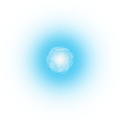
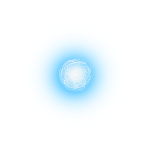
Added new art, sounds, debug tool, fixed bugs,

diff --git a/src/prefabs/ChaserEnemy.js b/src/prefabs/ChaserEnemy.js
@@ -41,7 +41,9 @@ class ChaserEnemy extends Phaser.Physics.Arcade.Sprite {
         this.redGroup = redGroup;
         this.blueGroup = blueGroup;
 
+        this.moving = false;
         this.exists = true;
+        this.stunned = false;
         this.health = chaserHealth;
         this.damage = 1;
         this.damaged = false;
@@ -83,6 +85,7 @@ class ChaserEnemy extends Phaser.Physics.Arcade.Sprite {
             enemy.moveTimer = scene.time.addEvent({
                 delay: chaserMoveDelay, 
                 callback: () => {
+                    enemy.moving = true;
                     // Predict player movement if more than predictMinDist away from player
                     if(Math.abs(player.x - enemy.x) > predictMinDist && Math.abs(player.y - enemy.y) > predictMinDist){
                         enemy.targetX = player.x + player.body.velocity.x * predictMult;
@@ -173,8 +176,8 @@ class ChaserEnemy extends Phaser.Physics.Arcade.Sprite {
         // If dead show got hit, stop everything, destroy, show death
         } else {
             this.exists = false;
-            this.startMoving.remove();
             this.moveTimer.remove();
+            this.startMoving.remove();
             if(this.damaged){
                 this.damagedTimer.remove();
             }
@@ -201,35 +204,36 @@ class ChaserEnemy extends Phaser.Physics.Arcade.Sprite {
         this.timedSwitch = this.scene.time.addEvent({
             delay: timedSwitchDelay, 
             callback: () => {
-                // Stop enemy->enemy collisions
-                // this.switching = true;
-                this.body.setImmovable(true);
-                // If was red, change to blue
-                if(this.state == 0){
-                    // Pause movement before switching
-                    this.body.stop();
-                    this.moveTimer.paused = true;
-                    this.timedSwitch.paused = true;
-                    this.switchPause = this.scene.time.delayedCall(enemySwitchPause, () => {
-                        if(this.health > 0){
-                            // eSwitchColor(originalGroup, newGroup)
-                            this.eSwitchColor(this.redGroup, this.blueGroup);
-                            this.timedSwitch.paused = false;
-                        }
-                    }, this.enemy, this.scene);
-                // If was blue, change to red
-                } else {
-                    // Pause movement before switching
-                    this.body.stop();
-                    this.moveTimer.paused = true;
-                    this.timedSwitch.paused = true;
-                    this.switchPause = this.scene.time.delayedCall(enemySwitchPause, () => {
-                        if(this.health > 0){
-                            // eSwitchColor(originalGroup, newGroup)
-                            this.eSwitchColor(this.blueGroup, this.redGroup);
-                            this.timedSwitch.paused = false;
-                        }
-                    }, this.enemy, this.scene);
+                if(!this.stunned){
+                    // Stop enemy->enemy collisions
+                    this.body.setImmovable(true);
+                    // If was red, change to blue
+                    if(this.state == 0){
+                        // Pause movement before switching
+                        this.body.stop();
+                        this.moveTimer.paused = true;
+                        this.timedSwitch.paused = true;
+                        this.switchPause = this.scene.time.delayedCall(enemySwitchPause, () => {
+                            if(this.health > 0){
+                                // eSwitchColor(originalGroup, newGroup)
+                                this.eSwitchColor(this.redGroup, this.blueGroup);
+                                this.timedSwitch.paused = false;
+                            }
+                        }, this.enemy, this.scene);
+                    // If was blue, change to red
+                    } else {
+                        // Pause movement before switching
+                        this.body.stop();
+                        this.moveTimer.paused = true;
+                        this.timedSwitch.paused = true;
+                        this.switchPause = this.scene.time.delayedCall(enemySwitchPause, () => {
+                            if(this.health > 0){
+                                // eSwitchColor(originalGroup, newGroup)
+                                this.eSwitchColor(this.blueGroup, this.redGroup);
+                                this.timedSwitch.paused = false;
+                            }
+                        }, this.enemy, this.scene);
+                    }
                 }
             }, 
             callbackContext: this.scene,

diff --git a/src/prefabs/OrbGroup.js b/src/prefabs/OrbGroup.js
@@ -3,7 +3,6 @@ class OrbGroup extends Phaser.GameObjects.Group {
         // https://photonstorm.github.io/phaser3-docs/Phaser.Types.Physics.Arcade.html#.PhysicsGroupConfig__anchor
         let groupConfig = {
             runChildUpdate: true,
-            maxSize: 2,
         }
         // Group(scene [, children] [, config])
         super(scene, null, groupConfig);
@@ -20,7 +19,6 @@ class OrbGroup extends Phaser.GameObjects.Group {
                 if(orb.shot){
                     enemy.orbDamageInvuln = true;
                     enemy.takeDamage(enemy, orb.damage);
-                    // console.log("orb damage: " + orb.damage);
                     enemy.orbInvulnTimer = group.scene.time.delayedCall(orbShotInvulnDuration, function () {
                         enemy.orbDamageInvuln = false;
                     }, null, this.scene);
@@ -28,7 +26,8 @@ class OrbGroup extends Phaser.GameObjects.Group {
                 } else if (!enemy.orbBlockInvuln) {
                     enemy.orbBlockInvuln = true;
                     // Stop enemy movement
-                    if(enemy.exists){
+                    if(enemy.exists && enemy.moving){
+                        enemy.stunned = true;
                         enemy.moveTimer.paused = true;
                         enemy.body.stop();
 
@@ -42,6 +41,7 @@ class OrbGroup extends Phaser.GameObjects.Group {
                         // Allow enemy movement after short stun
                         enemy.stunTimer = group.scene.time.delayedCall(orbBlockStunDuration, function () {
                             enemy.moveTimer.paused = false;
+                            enemy.stunned = false;
                         }, null, this.scene);
 
                         // Allow ability to be blocked again after short invuln time
@@ -70,10 +70,10 @@ class OrbGroup extends Phaser.GameObjects.Group {
                     this.orb = new Orb(this.scene, this, idleWeaponX, idleWeaponY, 0);
                     this.add(this.orb);
                     // Pass variables to the orb for this shot
-                    this.orb.targetX = pointer.x;
-                    this.orb.targetY = pointer.y;
                     this.orb.shotX = this.orb.x;
                     this.orb.shotY = this.orb.y;
+                    this.orb.targetX = pointer.x;
+                    this.orb.targetY = pointer.y;
                     this.orb.damage = orbShootDamage;
                     // Triggers orb shot
                     this.orb.shot = true;

diff --git a/src/prefabs/Player.js b/src/prefabs/Player.js
@@ -15,11 +15,12 @@ class Player extends Phaser.Physics.Arcade.Sprite {
         this.body.setSize(30, 50);
         this.body.setMaxVelocity(maxMoveVelocity, maxMoveVelocity);
 
-        keyLeft = scene.input.keyboard.addKey(Phaser.Input.Keyboard.KeyCodes.A);
-        keyRight = scene.input.keyboard.addKey(Phaser.Input.Keyboard.KeyCodes.D);
-        keyUp = scene.input.keyboard.addKey(Phaser.Input.Keyboard.KeyCodes.W);
-        keyDown = scene.input.keyboard.addKey(Phaser.Input.Keyboard.KeyCodes.S);
-        keySwitch = scene.input.keyboard.addKey(Phaser.Input.Keyboard.KeyCodes.SHIFT);
+        keyLeft = scene.input.keyboard.addKey('A');
+        keyRight = scene.input.keyboard.addKey('D');
+        keyUp = scene.input.keyboard.addKey('W');
+        keyDown = scene.input.keyboard.addKey('S');
+        keySwitch = scene.input.keyboard.addKey('SHIFT');
+        keyDebug = scene.input.keyboard.addKey('B');
         
         // this.idleWeapon = scene.add.sprite(centerX, centerY, 'redObstacle').setScale(0.1, 0.1);
         this.idleWeapon;
@@ -139,6 +140,14 @@ class Player extends Phaser.Physics.Arcade.Sprite {
             } else {
                 this.scene.corruptionDecayTimer.pause = false;
             }
+
+            if (Phaser.Input.Keyboard.JustDown(keyDebug)) {
+                if(this.scene.physics.world.debugGraphic.alpha == 1){
+                    this.scene.physics.world.debugGraphic.setAlpha(0);
+                } else {
+                    this.scene.physics.world.debugGraphic.setAlpha(1);
+                }
+            }
         }
     }
 
@@ -152,6 +161,7 @@ class Player extends Phaser.Physics.Arcade.Sprite {
                 this.scene.cameras.main.flash(1000);
                 this.scene.cameras.main.shake(1000, 0.01);
                 isGameOver = true;
+                this.scene.sound.play('playerDeath');
                 this.setImmovable(true);
                 this.setAlpha(0.2);
                 this.gameOverTimer = this.scene.time.delayedCall(pDeathDelay, function () {

diff --git a/src/main.js b/src/main.js
@@ -12,7 +12,7 @@ let config = {
     physics: {
         default: 'arcade',
         arcade: {
-            // debug: true,
+            debug: true,
         }
     },
     scene: [ Load, Menu, Instructions, Play, HUD, GameOver ]
@@ -89,17 +89,17 @@ var knifeMeleeROF = 500;
 var knifeMeleeDamage = 3;
 
 // Orb shot
-var orbAccel = 40;  // Initial accel for orb on shoot
+var orbAccel = 50;  // Initial accel for orb on shoot
 var orbAccelMult = 1.05; // Accel multiplier every frame after being shot
-var orbMaxSpeed = maxMoveVelocity;
+var orbMaxSpeed = 500;
 var orbShootDamage = 1;
 var orbShootROF = 2000;
 var orbShotInvulnDuration = 500;    // Enemy orb damage invulnerability duration after being hit by shot orb
 
 // Orb idle
-var orbBlockStunDuration = 200;     // Enemy orb stun (unable to move) duration after being blocked by idle orb
-var orbBlockInvulnDuration = 1000;  // Enemy orb block invulnerability duration after being blocked by idle orb
-var orbKnockbackVelocity = 800;     // Velocity magnitude of block knockback
+var orbBlockStunDuration = 500;     // Enemy orb stun (unable to move) duration after being blocked by idle orb
+var orbBlockInvulnDuration = 500;  // Enemy orb block invulnerability duration after being blocked by idle orb
+var orbKnockbackVelocity = 500;     // Velocity magnitude of block knockback
 
 // Enemies ----------------------------------------------------------------------------------------------------
 var timedSwitchDelay = 7000;
@@ -123,10 +123,10 @@ var chaserHealth = 10;
 
 // Game controls ----------------------------------------------------------------------------------------------------
 // Player
-var keyLeft, keyRight, keyUp, keyDown, keySwitch;
+var keyLeft, keyRight, keyUp, keyDown, keySwitch, keyDebug;
 
 // Menu
-var keyStart, keyInstructions;
+var keyStart, keyInstructions, keyMute;
 
 // Audio Settings
 var globalVolume = 1;

diff --git a/src/prefabs/Orb.js b/src/prefabs/Orb.js
@@ -1,7 +1,7 @@
 class Orb extends Phaser.Physics.Arcade.Sprite {
     constructor(scene, group, oSpawnX, oSpawnY, state) {
-        super(scene, oSpawnX, oSpawnY, 'orb').setOrigin(0.5, 0.5).setScale(3, 3);
-        
+        super(scene, oSpawnX, oSpawnY, 'orb').setOrigin(0.5, 0.5).setScale(1.5, 1.5);
+
         let knife = this;
         this.group = group;
         this.scene = scene;
@@ -14,7 +14,7 @@ class Orb extends Phaser.Physics.Arcade.Sprite {
         
         this.damage = orbShootDamage;
         this.shooting = false;
-        this.shot = false;
+        this.shot;
 
         this.accel = orbAccel;
 
@@ -22,13 +22,13 @@ class Orb extends Phaser.Physics.Arcade.Sprite {
         scene.physics.add.existing(this);
         this.body.setMaxVelocity(orbMaxSpeed, orbMaxSpeed);
 
-        this.body.setCircle(15, 45, 45);
+        this.body.setCircle(25, 50, 50);
     }
 
-    update(){
-        
+    update(){    
         if(this.shot){
             if(usingCorruption) {
+                this.setTexture('corruptOrb');
                 this.damage += corruption;
                 corruption = 0;
                 usingCorruption = false;

diff --git a/src/scenes/Play.js b/src/scenes/Play.js
@@ -8,6 +8,8 @@ class Play extends Phaser.Scene {
 
         keyStart = this.input.keyboard.addKey(Phaser.Input.Keyboard.KeyCodes.ENTER);
 
+        this.physics.world.debugGraphic.setAlpha(0);
+
         let playConfig = {
             fontFamily: 'Courier',
             fontSize: '40px',
@@ -37,7 +39,14 @@ class Play extends Phaser.Scene {
 
         this.redChaserGroup = new EnemyColorGroup(this, 0);
         this.blueChaserGroup = new EnemyColorGroup(this, 1);
-        this.collideChaserGroups = this.physics.add.collider(this.redChaserGroup, this.blueChaserGroup);
+        // this.collideChaserGroups = this.physics.add.collider(this.redChaserGroup, this.blueChaserGroup);
+        this.collideChaserGroups = this.physics.add.collider(this.redChaserGroup, this.blueChaserGroup, null, function(red, blue) {
+            if(red.stunned || blue.stunned) {
+                return false;
+            } else {
+                return true;
+            }
+          }, this);
 
         // KnifeGroup(scene, state, redEnemyGroup)
         this.knifeGroup = new KnifeGroup(this, 0, this.redChaserGroup);

diff --git a/src/prefabs/Knife.js b/src/prefabs/Knife.js
@@ -1,6 +1,10 @@
 class Knife extends Phaser.Physics.Arcade.Sprite {
     constructor(scene, group, oSpawnX, oSpawnY, state) {
-        super(scene, oSpawnX, oSpawnY, 'knife').setOrigin(0.5, 0.5);
+        if(usingCorruption){
+            super(scene, oSpawnX, oSpawnY, 'corruptKnife').setOrigin(0.5, 0.5);
+        } else {
+            super(scene, oSpawnX, oSpawnY, 'knife').setOrigin(0.5, 0.5);
+        }
         
         let knife = this;
         this.group = group;
@@ -18,11 +22,13 @@ class Knife extends Phaser.Physics.Arcade.Sprite {
         scene.add.existing(this);
         scene.physics.add.existing(this);
 
-        // this.body.setCircle(8, this.width/2, this.height/2);
-        // .setOffset(this.width/2, this.height/2);
+        this.body.setCircle(25);
     }
 
     update(){
+        if(usingCorruption){
+            this.setTexture('corruptKnife');
+        }
         // Remove if goes off screen
         if(this.x < 0 || this.x > screenWidth || this.y < 0 || this.y > screenHeight) {
             this.group.remove(this, true, true);

diff --git a/src/scenes/Menu.js b/src/scenes/Menu.js
@@ -4,8 +4,11 @@ class Menu extends Phaser.Scene {
     }
 
     create() {
-        keyStart = this.input.keyboard.addKey(Phaser.Input.Keyboard.KeyCodes.ENTER);
-        keyInstructions = this.input.keyboard.addKey(Phaser.Input.Keyboard.KeyCodes.I);
+        keyStart = this.input.keyboard.addKey('ENTER');
+        keyInstructions = this.input.keyboard.addKey('I');
+        keyMute = this.input.keyboard.addKey('M');
+
+        // game.sound.mute = true;
 
         let menuConfig = {
             fontFamily: 'Courier',
@@ -44,6 +47,14 @@ class Menu extends Phaser.Scene {
             pCurrHealth = pMaxHealth;
             corruption = 0;
             isInvuln = false;
+        }
+
+        if (Phaser.Input.Keyboard.JustDown(keyMute)) {
+            if(game.sound.mute == false){
+                game.sound.mute = true;
+            } else {
+                game.sound.mute = false;
+            }
         }
     }
 }

diff --git a/src/scenes/Instructions.js b/src/scenes/Instructions.js
@@ -41,7 +41,7 @@ class Instructions extends Phaser.Scene {
 
         // Text
         // Black
-        this.add.text(centerX, screenHeight - 10, 'Press I to return to menu', instructionsConfig).setOrigin(0.5, 0.5);
+        this.add.text(centerX, screenHeight - 10, 'Press I to return to menu, M to toggle mute, B to toggle physics debug', instructionsConfig).setOrigin(0.5, 0.5);
         this.add.text(centerX, textSpacer, 'WASD to move.    MOUSE to aim and LEFT MOUSE BUTTON to shoot weapon.', instructionsConfig).setOrigin(0.5, 0.5);
         this.add.text(centerX, textSpacer + smallTextSpacer, 'Press SHIFT to SWITCH the player color state between RED and BLUE.', instructionsConfig).setOrigin(0.5, 0.5);
         this.add.text(centerX, textSpacer + 2*smallTextSpacer, 'RED hits RED, BLUE hits BLUE, and OPPOSITES pass through.', instructionsConfig).setOrigin(0.5, 0.5);

diff --git a/src/scenes/Load.js b/src/scenes/Load.js
@@ -16,10 +16,13 @@ class Load extends Phaser.Scene {
         this.load.image('redObstacle', './assets/RedObstacle.png');
         this.load.image('blueObstacle', './assets/BlueObstacle.png');
         this.load.image('knife', './assets/knife.png');
+        this.load.image('corruptKnife', './assets/corruptknife.png');
         this.load.image('orb', './assets/orb.png');
+        this.load.image('corruptOrb', './assets/corruptorb.png');
         // Load audio assets
-        this.load.audio('buttonsound', './assets/buttonsound.mp3');
-        
+        this.load.audio('buttonSound', './assets/buttonsound.mp3');
+        this.load.audio('knifeThrow', './assets/knife.mp3');
+        this.load.audio('playerDeath', './assets/demonDeath.mp3');
     }
 
     create() {

diff --git a/src/prefabs/KnifeGroup.js b/src/prefabs/KnifeGroup.js
@@ -64,6 +64,7 @@ class KnifeGroup extends Phaser.GameObjects.Group {
                     this.knife.damage = knifeThrowDamage;
                     // Triggers knife first throwing state
                     this.knife.first = true;
+                    this.scene.sound.play('knifeThrow');
                     // Start throw cooldown
                     group.knifeCooldown = this.scene.time.delayedCall(knifeThrowROF, function () {
                         group.isOnCooldown = false;

diff --git a/src/prefabs/EnemyColorGroup.js b/src/prefabs/EnemyColorGroup.js
@@ -20,7 +20,13 @@ class EnemyColorGroup extends Phaser.Physics.Arcade.Group {
             }
         }, scene)
 
-        this.selfCollider = scene.physics.add.collider(this, this);
+        this.selfCollider = scene.physics.add.collider(this, this, null, function(first, second) {
+          if(first.stunned || second.stunned) {
+              return false;
+          } else {
+              return true;
+          }
+        }, scene);
     }
 
     update() {
